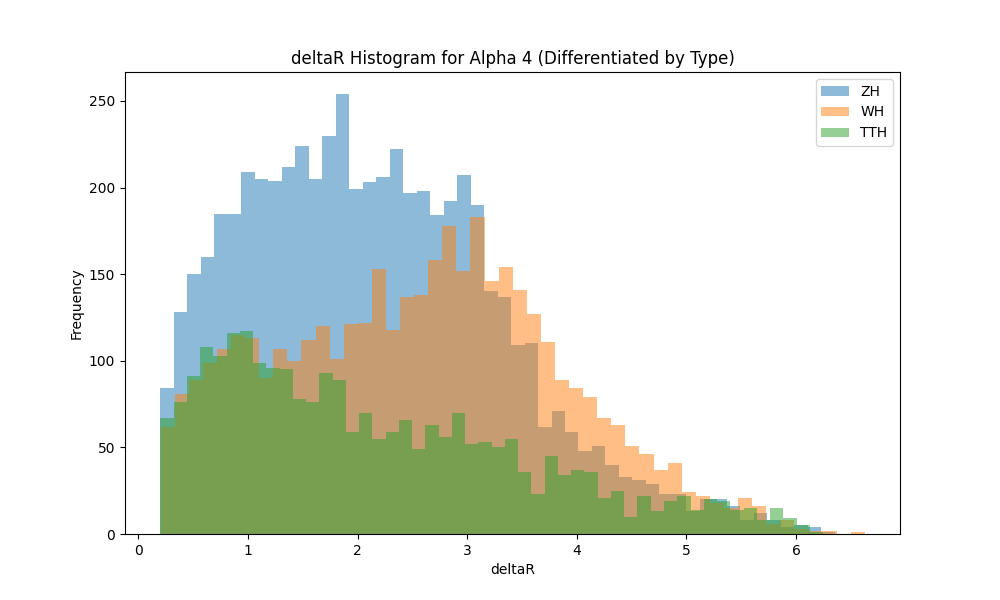
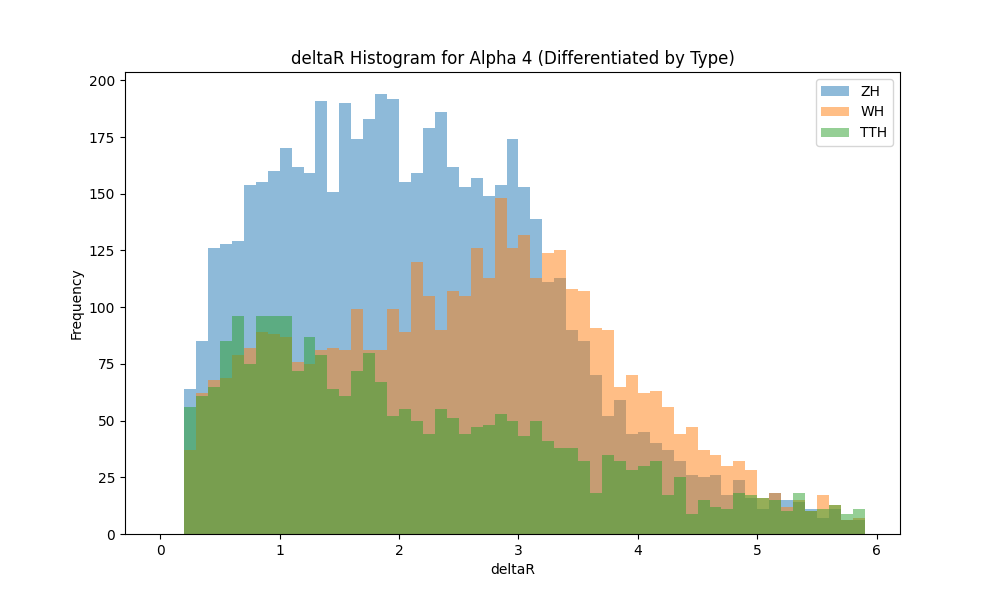
Los graficos analizados para cada tipo de evento (ZH, WH y TTH) han sido generados en las carpetas deltaR_isol, deltaR_merge, deltaR_no_isol dentro de data. En deltaR_merge se junta toda la data y se plotea en un mismo grafico diferenciando entre el tipo de senal y otro que no distingue y las suma (

diff --git a/scripts_2208/06_deltaR_dfpickle.py b/scripts_2208/06_deltaR_dfpickle.py
@@ -280,21 +280,26 @@ origin = "/Collider/scripts_2208/data/clean/"
 
 
 for alpha in [4, 5, 6]:
+
+    print("Alpha: ", alpha)
     
     for type in ['ZH', 'WH', 'TTH']:
         
         destiny = f"./data/deltaR_no_isol/{type}_{alpha}/"
         Path(destiny).mkdir(exist_ok=True, parents=True)
 
-        print("Alpha: ", alpha)
+        print("Type: ", type)
         
         input_file = origin + f"full_op_{type}_M9_Alpha{alpha}_13_photons.pickle"
+
+        #print("input_photons: ", input_file)
+
+        #print("leptons: ", input_file.replace('photons', 'leptons'))
         
         photons = pd.read_pickle(input_file)
 
         leptons = pd.read_pickle(input_file.replace('photons', 'leptons'))
 
-        
         # Create sub DataFrame for electrons (id = 11)
         electrons = leptons[leptons['pdg'] == 11].copy()
         
@@ -302,7 +307,7 @@ for alpha in [4, 5, 6]:
         electrons = reset_id_by_pt(electrons)
 
         #realizamos el algoritmo de aislamiento
-        photons = isolate_photons(photons, electrons)
+        #photons = isolate_photons(photons, electrons)
         #Reset id photons ya que el algoritmo de aislamiento lo desordeno
         photons = reset_id_by_pt(photons)
         print_first_and_last_10(photons)
@@ -317,9 +322,9 @@ for alpha in [4, 5, 6]:
         # Calculate ΔR values
         deltaR_ph_elec = calculate_delta_r(photons, electrons)
 
-        np.savetxt(f"{origin}/deltaR_Alpha{alpha}_{type}.txt", deltaR_ph_elec)
+        np.savetxt(f"{origin}/no_iso_deltaR_Alpha{alpha}_{type}.txt", deltaR_ph_elec)
 
         print("Start phvselectrons")
         # Plot ΔR histogram
         plot_delta_r_histogram(deltaR_ph_elec, alpha_s, destiny, 'Photons vs Electrons')
-
+    

diff --git a/scripts_2208/06_deltaR_correct_merge.py b/scripts_2208/06_deltaR_correct_merge.py
@@ -8,6 +8,8 @@ def merge_and_plot(alpha):
     # Directory where txt files are stored
     origin = "/Collider/scripts_2208/data/clean/"
     
+    print("Alpha: ")
+    print(alpha)
     # Initialize an empty DataFrame to hold merged data
     merged_data = pd.DataFrame()
     
@@ -22,13 +24,19 @@ def merge_and_plot(alpha):
         
         # Store the data for individual plotting
         data_dict[event_type] = df
+
+        #print("event_type: ")
+        #print(event_type)
+        #print("data_dict")
+        #print(data_dict)
         
         # Merge the data
         merged_data = pd.concat([merged_data, df], ignore_index=True)
 
     # Create the first plot: All data merged
+    bins = np.arange(0, 6, 0.1)
     plt.figure(figsize=(10, 6))
-    plt.hist(merged_data['deltaR'], bins=50, alpha=0.7, label=f"Alpha {alpha}")
+    plt.hist(merged_data['deltaR'], bins=bins, alpha=0.7, label=f"Alpha {alpha}")
     plt.title(f"deltaR Histogram for Alpha {alpha} (All Merged)")
     plt.xlabel("deltaR")
     plt.ylabel("Frequency")
@@ -43,7 +51,7 @@ def merge_and_plot(alpha):
     # Create the second plot: Differentiating by event type
     plt.figure(figsize=(10, 6))
     for event_type, df in data_dict.items():
-        plt.hist(df['deltaR'], bins=50, alpha=0.5, label=event_type, histtype='stepfilled')
+        plt.hist(df['deltaR'], bins=bins, alpha=0.5, label=event_type, histtype='stepfilled')
     
     plt.title(f"deltaR Histogram for Alpha {alpha} (Differentiated by Type)")
     plt.xlabel("deltaR")
